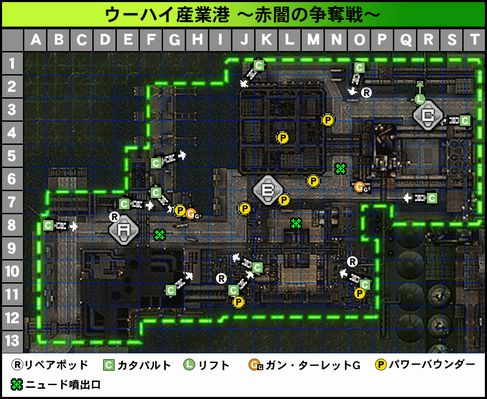
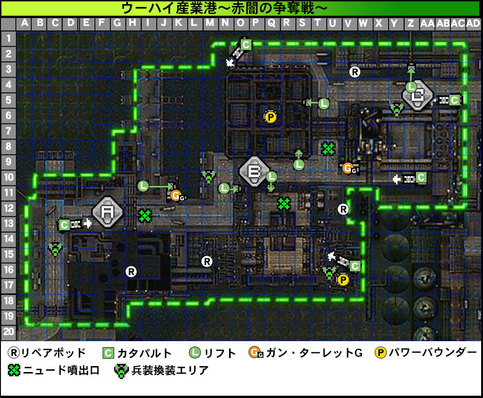
[master] マップ差し替え - ウーハイ産業港 赤闇の争奪戦 差し替え

diff --git a/src/scale.html b/src/scale.html
@@ -22,6 +22,29 @@
 </style>
 </head>
 <body>
+
+  <style>
+    .wuhai_a {top:  0px; left:  0px; zoom: 1.0; } /* zoom: 1.0 */
+    .wuhai_b {top:  0px; left:  0px; zoom: 1.0; } /* zoom: 1.0 */
+    .wuhai_c {top:  0px; left:  0px; zoom: 1.0; } /* zoom: 1.0 */
+    .wuhai_d {top:  0px; left:  0px; zoom: 1.0; } /* zoom: 1.0 */
+    .wuhai_e {top:  0px; left:  0px; zoom: 1.0; } /* zoom: 1.0 */
+    .wuhai_f {top: 25px; left:  9px; zoom: 1.0; } /* zoom: 1.0 */
+    .wuhai_ea{top:  0px; left:  0px; zoom: 1.0; } /* zoom: 1.0 */
+    .wuhai_sa{top:  0px; left:  0px; zoom: 1.0; } /* zoom: 1.0 */
+    .wuhai_  {top: 83px; left:227px; zoom: 1.0; } /* zoom: 1.0 */
+  </style>
+  <div class="diff-pane" id="wuhai">
+    <div class="dummy"><img src="./map/wuhai/wuhai_a.jpg"></div>
+    <div class="map wuhai_a show"><img src="./map/wuhai/wuhai_a.jpg"></div>
+    <div class="map wuhai_b"><img src="./map/wuhai/wuhai_b.jpg"></div>
+    <div class="map wuhai_c"><img src="./map/wuhai/wuhai_c.jpg"></div>
+    <div class="map wuhai_d"><img src="./map/wuhai/wuhai_d.jpg"></div>
+    <div class="map wuhai_e"><img src="./map/wuhai/wuhai_e.jpg"></div>
+    <div class="map wuhai_f"><img src="./map/wuhai/wuhai_f.jpg"></div>
+    <div class="map wuhai_ea"><img src="./map/wuhai/wuhai_ea.jpg"></div>
+    <div class="map wuhai_sa show"><img src="./map/wuhai/wuhai_sa.jpg"></div>
+  </div>
   
   <style>
     .map_a {top:  0px; left:  0px; zoom: 1.0; } /* zoom: 1.0 */
